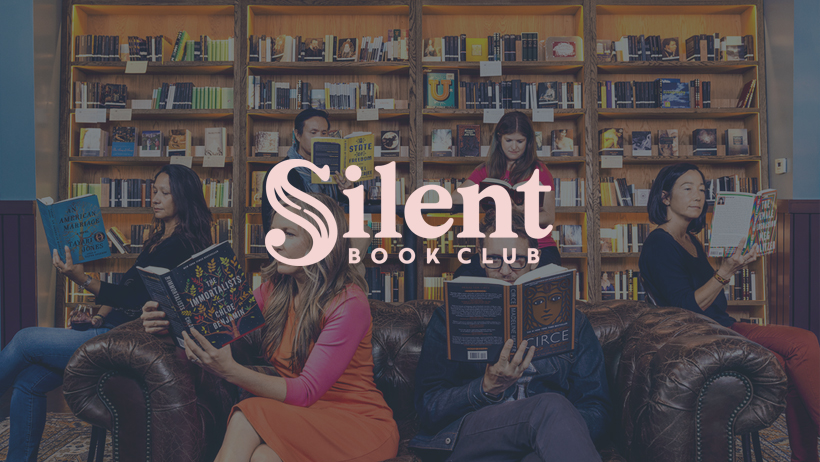
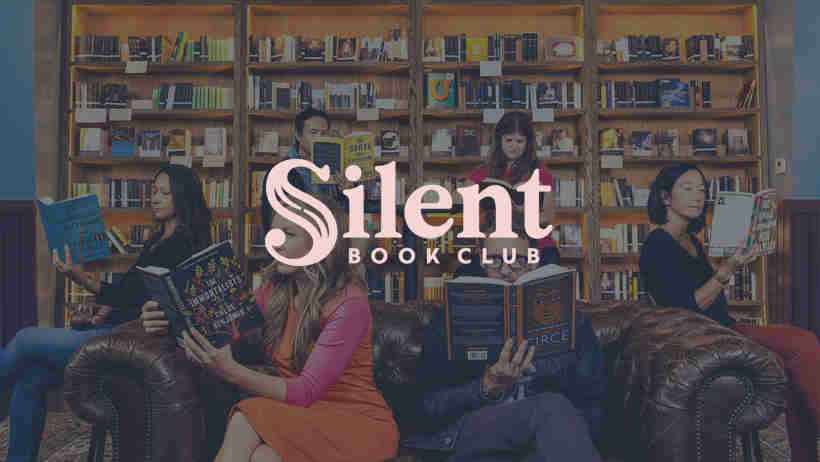
Replaced imgs with compressed ones

diff --git a/src/components/navbar.tsx b/src/components/navbar.tsx
@@ -23,7 +23,7 @@ const Navbar = () => {
     <div className="fixed bg-white w-full border-b border-primary-slate">
       <div className="max-w-[1200px] px-12 xl:px-0 m-auto w-full py-4 flex justify-between items-center" >
         <a href="/">
-          <img src="/logo.png" alt="Logo" className="h-16 inline-block" />
+          <img src="/logo.jpg" alt="Logo" className="h-16 inline-block" />
         </a>
 
         {/* Nav List for Desktop */}
